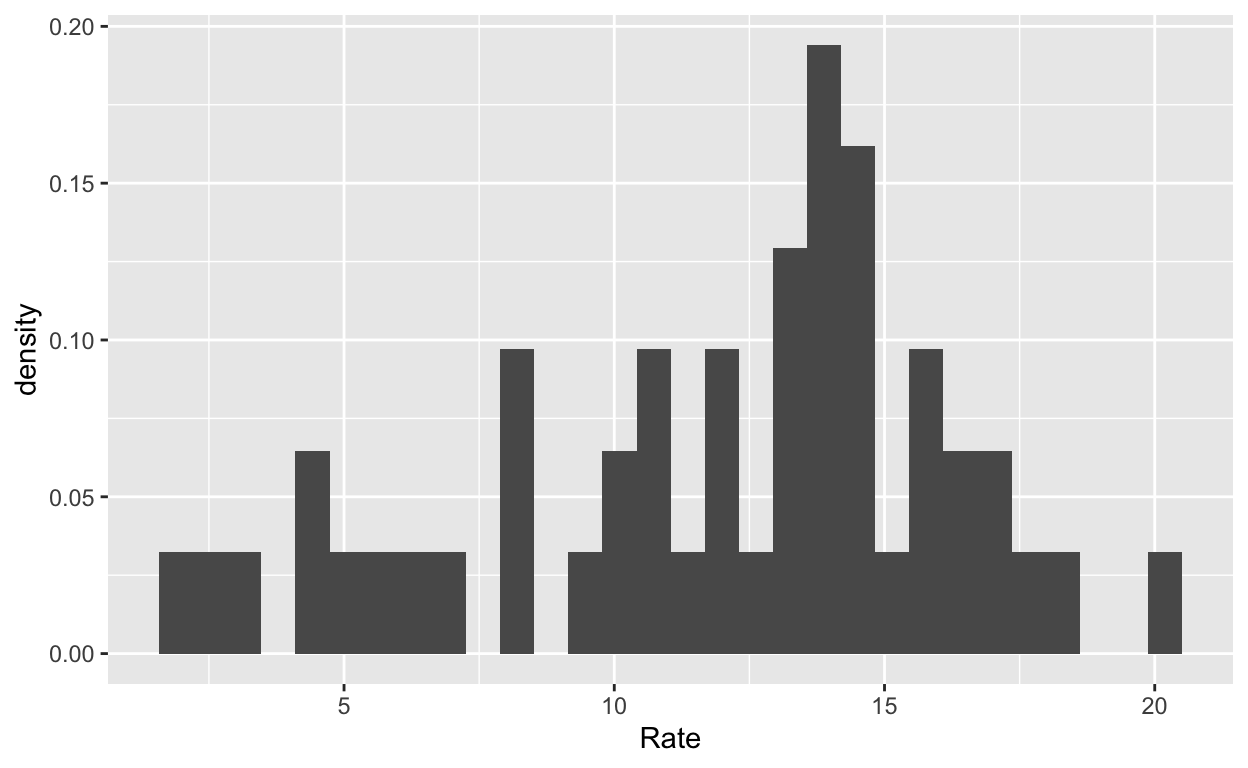
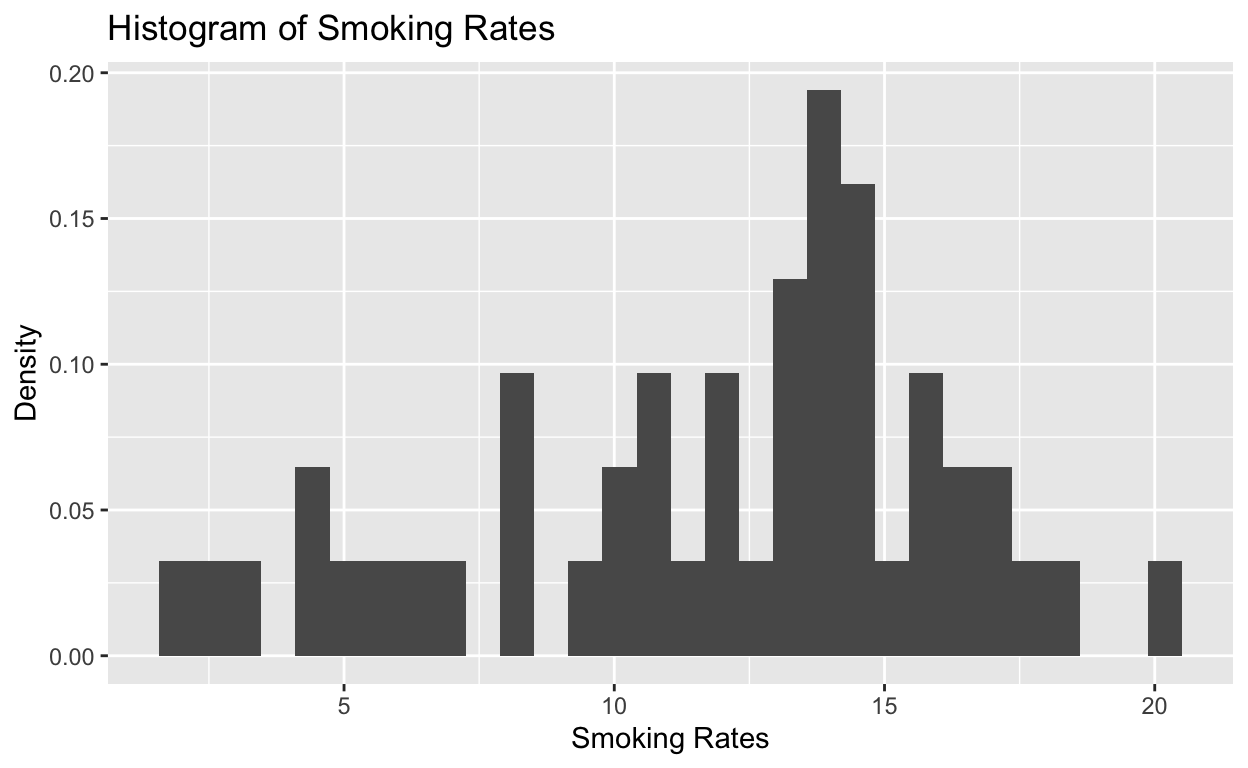
xxx

diff --git a/Boit_final_proj.html b/Boit_final_proj.html
@@ -1520,17 +1520,16 @@ code span.wa { color: #5e5e5e; font-style: italic; } /* Warning */
 <h2 id="introduction">Introduction</h2>
 <p>This final project will explore data related to smoking in high schools in California. The smoking epidemic is terrifying, and the vast majority of nicotine addicts begin smoking in high school. According to the National Cancer Institute, 90% of daily cigarette smokers started before the age of eighteen … which is in high school. The data is from Data.Gov (which is also available at this link: <a href="https://catalog.data.gov/dataset/proportion-of-high-school-students-who-smoked-cigarettes-in-the-past-30-days-lghc-indicato-46afc" class="uri">https://catalog.data.gov/dataset/proportion-of-high-school-students-who-smoked-cigarettes-in-the-past-30-days-lghc-indicato-46afc</a>). The data draws from California high schools.</p>
 <p>I think it is important to look at this sort of data set firstly because we KNOW – from statistics like the National Cancer Institute’s – that high schoolers are the most at risk for developing cigarette addictions. Smoking cigarettes is linked to roughly 80-90% of lung cancer deaths in the United States, according to the CDC, and over 130 thousand people die of lung cancer annually (on average) in the US, according to Lung Cancer Facts 2022. In order to understand the root of this epidemic – and combat it – we must better understand which teenagers are most at risk so that we can best allocate our resources to fighting nicotine addictions.</p>
-<p>This topic is of particular interest to me because my grandma (a smoker) died of cancer, and I have several friends with nicotine addictions who developed them in high school. Though we had some anti-smoking notices, there were very few. I also grew up in Alcoholics Anonymous meetings, where the vast majority of people smoked. Listening to individuals’ stories, week after week, I learned at a young age that most of them started drinking and smoking in high school. I would like to do this project in order to assemble quantitative data to help inform anti-smoking campaigns so that they can be as effective as possible. It is truly an epidemic, and I hope that this project will give greater insight into who is at the greatest risk.</p>
-<h2 id="data-and-research-design">Data and Research Design</h2>
-<p>Individual teenagers (in high school) who smoke vary in their demographics, both in terms of their racial identity and their sex identity (ie. male v female). This project only examines students who do smoke cigarettes.</p>
-<p>The dataset I will use in this project is from Data.Gov, which is the home of the U.S. Government’s open data. It is managed by the federal government’s executive branch, and therefore it is highly reliable. The survey was administered in the United States via a biennial survey from 2001 to 2016. It was administered to students in grades 8, 10, and 12. This data set specifically examines California.</p>
-<p>In my examination of the research I will examine the rate of smoking as my dependent variable. I examine two main independent variables: the first being racial identity. I examine four main racial categories: African-American, Asian/Pacific Islander, Hispanic, and White. I understand that this excludes biracial people and may oversimplify the racial category in general, however it offers a broad enough set of options to give a reliable result. I examine two sexes: male and female. I will use the term sex rather than gender because gender identity tends to be more complicated while sex identity is often binary. (I recognize that there are Intersex people as well, however they compose such a small portion of the population – and are not present in the data from this survey. In order to stay within the realm of this data set, I will consider the sex identity binary for this project.)</p>
+<p>This topic is of particular interest to me because my grandma (a smoker) died of cancer, and I have several friends with nicotine addictions who developed them in high school. Though we had some anti-smoking notices, there were very few. I also grew up in Alcoholics Anonymous meetings, where the vast majority of people smoked. Listening to individuals’ stories, week after week, I learned at a young age that most of them started drinking and smoking in high school. I would like to do this project in order to assemble quantitative data to help inform anti-smoking campaigns so that they can be as effective as possible. It is truly an epidemic, and I hope that this project will give greater insight into who is at the greatest risk.
+Individual teenagers (in high school) who smoke vary in their demographics, both in terms of their racial identity and their sex identity (ie. male v female). This project only examines students who do smoke cigarettes. The broader puzzle I reference in this study is how identity intersects – and affects – teenager smoking rates. In order to best address this broader puzzle, the specific research question I pose (and will answer) in this project is: “Which racial group and which sex smokes cigarettes most (and least)?”</p>
 <p>I hypothesize that asian teenagers will smoke most, followed by their white peers. This is because smoking rates are highest among Asian countries, followed by much of Europe, According to the World Population Review. I hypothesize that more teenage boys will smoke than teenage girls because that was my personal experience in high school.</p>
-<p>This research project has an observational research design, because it observes the independent and dependent variables without changing any variables in the equation.</p>
+<h2 id="data-and-research-design">Data and Research Design</h2>
+<p>The data set I will use in this project is from Data.Gov, which is the home of the U.S. Government’s open data. It is managed by the federal government’s executive branch, and therefore it is highly reliable. The survey was administered in the United States via a biennial survey from 2001 to 2016. It was administered to students in grades 8, 10, and 12. This data set specifically examines California.</p>
+<p>In my examination of the research I will examine the rate of smoking as my dependent variable. I examine two main independent variables: the first being racial identity. I examine four main racial categories: African-American, Asian/Pacific Islander, Hispanic, and White. I understand that this excludes biracial people and may oversimplify the racial category in general, however it offers a broad enough set of options to give a reliable result. I examine two sexes: male and female. I will use the term sex rather than gender because gender identity tends to be more complicated while sex identity is often binary. (I recognize that there are Intersex people as well, however they compose such a small portion of the population – and are not present in the data from this survey. In order to stay within the realm of this data set, I will consider the sex identity binary for this project.)</p>
+<p>This research project is a cross-sectional study. This means that it is an observational study that looks at data of a certain population in a certain time. The population of this data set is Californian teenagers and the time range is from 2001-2016. This study is clearly observational because it measures the independent and dependent variables without changing any variables in the equation.</p>
 <p>The data set I use in this project is also accessible here.
 <a href="https://catalog.data.gov/dataset/proportion-of-high-school-students-who-smoked-cigarettes-in-the-past-30-days-lghc-indicato-46afc" class="uri">https://catalog.data.gov/dataset/proportion-of-high-school-students-who-smoked-cigarettes-in-the-past-30-days-lghc-indicato-46afc</a></p>
-<h2 id="results-intro">Results Intro</h2>
-<p>Below is the data of the independent and dependent variables:</p>
+Loading the Data:
 <div class="layout-chunk" data-layout="l-body">
 <div class="sourceCode">
 <pre class="sourceCode r"><code class="sourceCode r"><span><span class='kw'><a href='https://rdrr.io/r/base/library.html'>library</a></span><span class='op'>(</span><span class='va'><a href='https://strengejacke.github.io/sjlabelled/'>sjlabelled</a></span><span class='op'>)</span></span>
@@ -1542,6 +1541,7 @@ code span.wa { color: #5e5e5e; font-style: italic; } /* Warning */
 <span><span class='va'>data</span> <span class='op'>&lt;-</span> <span class='fu'><a href='https://readr.tidyverse.org/reference/read_delim.html'>read_csv</a></span><span class='op'>(</span><span class='st'>"proportion-of-high-school-students-who-smoked-cigarettes-in-the-past-30-days-lghc-indicator-13 (1).csv"</span><span class='op'>)</span></span></code></pre>
 </div>
 </div>
+Organizing the Data to Best Interpret it Later:
 <div class="layout-chunk" data-layout="l-body">
 <div class="sourceCode">
 <pre class="sourceCode r"><code class="sourceCode r"><span><span class='va'>cigs</span> <span class='op'>&lt;-</span> <span class='va'>data</span> <span class='op'>|&gt;</span></span>
@@ -1557,17 +1557,22 @@ code span.wa { color: #5e5e5e; font-style: italic; } /* Warning */
 <span>  <span class='fu'><a href='https://dplyr.tidyverse.org/reference/mutate.html'>mutate</a></span><span class='op'>(</span>of_color <span class='op'>=</span> <span class='fu'><a href='https://dplyr.tidyverse.org/reference/if_else.html'>if_else</a></span><span class='op'>(</span><span class='va'>`Strata Name`</span> <span class='op'>==</span> <span class='st'>"White"</span>, <span class='st'>"White"</span>, <span class='st'>"Person of Color"</span><span class='op'>)</span><span class='op'>)</span></span></code></pre>
 </div>
 </div>
-histogram – only supposed to be of the outcome variable
+<p>The main coefficient of interest here is the rate of smoking among Californian high school teenagers. This coefficient is what this study will examine as its outcome/dependent variable. However, this study will also examine other coefficients as discussed above. This includes the correlation between race, sex, and smoking rates, in order to better understand relationships between all involved variables.</p>
+Creating a Histogram of the Outcome Variable:
 <div class="layout-chunk" data-layout="l-body">
 <div class="sourceCode">
 <pre class="sourceCode r"><code class="sourceCode r"><span><span class='va'>cigs</span> <span class='op'>|&gt;</span></span>
 <span>  <span class='fu'><a href='https://ggplot2.tidyverse.org/reference/ggplot.html'>ggplot</a></span><span class='op'>(</span>mapping <span class='op'>=</span> <span class='fu'><a href='https://ggplot2.tidyverse.org/reference/aes.html'>aes</a></span><span class='op'>(</span>x <span class='op'>=</span> <span class='va'>Rate</span><span class='op'>)</span><span class='op'>)</span> <span class='op'>+</span></span>
-<span>  <span class='fu'><a href='https://ggplot2.tidyverse.org/reference/geom_histogram.html'>geom_histogram</a></span><span class='op'>(</span><span class='fu'><a href='https://ggplot2.tidyverse.org/reference/aes.html'>aes</a></span><span class='op'>(</span>y <span class='op'>=</span> <span class='va'>..density..</span><span class='op'>)</span><span class='op'>)</span></span></code></pre>
+<span>  <span class='fu'><a href='https://ggplot2.tidyverse.org/reference/geom_histogram.html'>geom_histogram</a></span><span class='op'>(</span><span class='fu'><a href='https://ggplot2.tidyverse.org/reference/aes.html'>aes</a></span><span class='op'>(</span>y <span class='op'>=</span> <span class='va'>..density..</span><span class='op'>)</span><span class='op'>)</span> <span class='op'>+</span></span>
+<span>  <span class='fu'><a href='https://ggplot2.tidyverse.org/reference/labs.html'>labs</a></span><span class='op'>(</span>x <span class='op'>=</span> <span class='st'>"Smoking Rates"</span>,</span>
+<span>       y <span class='op'>=</span> <span class='st'>"Density"</span>,</span>
+<span>       title <span class='op'>=</span> <span class='st'>"Histogram of Smoking Rates"</span><span class='op'>)</span></span></code></pre>
 </div>
 <p><img src="Boit_final_proj_files/figure-html5/unnamed-chunk-3-1.png" width="624" /></p>
 </div>
+<p>This histogram displays the outcome variable: the rate of smoking. Smoking rates are displayed along the x-axis of the chart and range from slightly above 0 to slightly above 21. This shows a wide range in the amount of smoking. The density of these smoking rates – or how common they are among the different groups of Californian teens surveyed – is displayed on the y-axis. The densities vary from 0 to nearly .20. The most “dense” or common rate of smoking is just below .20 on the y axis and located at about 13 (on the x axis), showing that it is not uncommon for 13% of any given demographic group (from this data set) to smoke – and that in about 18% of all demographic groups, 13% of those asked will smoke cigarettes.</p>
 <h2 id="results-for-race-independent-variable">Results for Race Independent Variable</h2>
-BIVARIATE PLOT OF OUTCOME AND RACE:
+Creating a Bivariate Plot of the Outcome and Race:
 <div class="layout-chunk" data-layout="l-body">
 <div class="sourceCode">
 <pre class="sourceCode r"><code class="sourceCode r"><span><span class='va'>cigs_race</span> <span class='op'>&lt;-</span> <span class='va'>cigs</span> <span class='op'>|&gt;</span></span>
@@ -1587,7 +1592,7 @@ BIVARIATE PLOT OF OUTCOME AND RACE:
 </div>
 <p><img src="Boit_final_proj_files/figure-html5/unnamed-chunk-4-1.png" width="624" /></p>
 </div>
-<p>This graph shows the rate of cigarette smoking on average for each race. The data points are taken from several years (2001 - 2016) and only measured on the basis of race in this chart.</p>
+<p>This bar graph shows the rate of cigarette smoking on average for each race. The data points are taken from several years (2001 - 2016) and only measured on the basis of race in this chart. The x-axis displays the race in four separate columns: White, Black, Hispanic, and Asian. The y-axis shows the percentage of each group who smoke cigarettes. The y-axis averages the data provided through the years in order to measure each demographic. The bar graph shows that white teenagers tended to smoke cigarettes the most because the “White” column is tallest. This shows that – on average – the white teenagers smoked at a rate of 15%, based on the data set. The lowest column represents the Asian teenagers surveyed, who tended to smoke cigarettes at roughly a rate of 8.75%. Black teenagers smoked at the second lowest rate, at just below 10%. Hispanic teenagers smoked at the second highest rate, at about 12%. The rough difference between white teenagers (the largest smoking group) and asian teenagers (the smallest smoking group) is about 6%, which is a very noticeable difference. The difference between white teenagers and hispanic teenagers (the second biggest smoking group) is also about 3%, which is quite significant as well. This bar graph provides valuable data showing that white teenagers are noticeably the biggest smoking group.</p>
 <div class="layout-chunk" data-layout="l-body">
 <div class="sourceCode">
 <pre class="sourceCode r"><code class="sourceCode r"><span><span class='va'>mod_race</span> <span class='op'>&lt;-</span></span>
@@ -1595,16 +1600,16 @@ BIVARIATE PLOT OF OUTCOME AND RACE:
 <span>    data <span class='op'>=</span> <span class='va'>cigs</span> <span class='op'>|&gt;</span> <span class='fu'><a href='https://dplyr.tidyverse.org/reference/filter.html'>filter</a></span><span class='op'>(</span><span class='va'>Strata</span> <span class='op'>==</span> <span class='st'>"Race-Ethnicity"</span><span class='op'>)</span>,</span>
 <span>    <span class='va'>Rate</span> <span class='op'>~</span> <span class='va'>Race</span><span class='op'>)</span></span>
 <span><span class='fu'><a href='https://rdrr.io/r/base/summary.html'>summary</a></span><span class='op'>(</span><span class='va'>mod_race</span><span class='op'>)</span><span class='op'>$</span><span class='va'>coefficients</span> <span class='op'>|&gt;</span> <span class='fu'>knitr</span><span class='fu'>::</span><span class='fu'><a href='https://rdrr.io/pkg/knitr/man/kable.html'>kable</a></span><span class='op'>(</span>digits <span class='op'>=</span> <span class='fl'>2</span>,</span>
-<span>                                               col.names <span class='op'>=</span> <span class='fu'><a href='https://rdrr.io/r/base/c.html'>c</a></span><span class='op'>(</span><span class='st'>"Estimate Std."</span>, <span class='st'>"Error"</span>, <span class='st'>"T Value"</span>, <span class='st'>"P Value"</span><span class='op'>)</span><span class='op'>)</span></span></code></pre>
+<span>                                               col.names <span class='op'>=</span> <span class='fu'><a href='https://rdrr.io/r/base/c.html'>c</a></span><span class='op'>(</span><span class='st'>"Est. SD"</span>, <span class='st'>"Error"</span>, <span class='st'>"T-Value"</span>, <span class='st'>"P-Value"</span><span class='op'>)</span><span class='op'>)</span></span></code></pre>
 </div>
 <table>
 <thead>
 <tr class="header">
 <th style="text-align: left;"></th>
-<th style="text-align: right;">Estimate Std.</th>
+<th style="text-align: right;">Est. SD</th>
 <th style="text-align: right;">Error</th>
-<th style="text-align: right;">T Value</th>
-<th style="text-align: right;">P Value</th>
+<th style="text-align: right;">T-Value</th>
+<th style="text-align: right;">P-Value</th>
 </tr>
 </thead>
 <tbody>
@@ -1639,6 +1644,11 @@ BIVARIATE PLOT OF OUTCOME AND RACE:
 </tbody>
 </table>
 </div>
+<p>This regressions table shows the effect of race on how much students tend to smoke cigarettes. In this table, we consider white students to be the intercept, or the baseline, of our studies, because white students smoked at the highest rates. From there, under the “Est SD” column, we can see how far each other racial demographic varies from the white teenagers. The negative in front of all three other groups shows that they all smoke fewer cigarettes than the white average (if they were positive, that would show that they smoked on average more cigarettes than their white peers). This regression table enforces that hispanics smoked the second most, as their -3.00 is the smallest value, showing that their smoking rates are closest to that of tehir white peers. It also reinforces that Black students smoked third most, because their -5.67 is the second lowest value, showing that they’re second closest to the white students. Asian students once more demonstrate the lowest smoking average, with a -6.36 difference from their white peers. The largest value here shows that they vary the most from the white baseline/intercept.</p>
+<p>The error column shows the possible error in each calculation, with equal error (2.16) among all groups except the white intercept which has 1.53 as its error value. This suggests that results could theoretically vary by 2.16 points in either direction. Regardless of whether or not all groups increased by 2.16, white students would still smoke the most on average.
+The T-values are not terribly important to the results of this experiment, but they measure the differences compared to the variation in data overall. The smaller the T value is, the less evidence it holds against the null hyothesis – and because the T-values are not negligible, there is some evidence against the null hypothesis.</p>
+<p>The P-values shown in the far right of the table show the probability of getting the same results – or values that emphasize the same result to at least the same extent (or greater) – if redoing the test. A lower p-value suggests that the null hypothesis is not true. Therefore, a p-value of 0, suggests that the null is false. Similarly, the 0.01 p-values also strongly suggest that the null hypothesis is not true. In this case, the null hypothesis would be the opposite of our main findings for each race (ie. that white teenagers smoke the least for the data provided on white teens as the baseline).</p>
+<p>I would say taht given the medium level errors on the regression table, that these results are relatively statistically significant, but have room for further investigation. These results on race are not strong enough to show any sort of causality, but they do show a correlation between racial groups the the likelihood of smoking. A more controlled experiment set-up for this variable would be necessary to show causality, and observational data often does not allow for the effective establishment of causality. That said, the results show a clear correlation, and so we can still make inferences about how race affects smoking cigarettes for teenagers. However, no certain causality may be established at this point.</p>
 <h2 id="results-for-sex-independent-variable">Results for Sex Independent Variable</h2>
 BIVARIATE PLOT OF OUTCOME AND SEX
 <div class="layout-chunk" data-layout="l-body">
@@ -1660,6 +1670,7 @@ BIVARIATE PLOT OF OUTCOME AND SEX
 </div>
 <p><img src="Boit_final_proj_files/figure-html5/unnamed-chunk-6-1.png" width="624" /></p>
 </div>
+<p>This bar graph shows the rate of cigarette smoking on average for both sexes The data points are taken from several years (2001 - 2016) and only measured on the basis of sex in this chart. The x-axis displays the race in two separate columns: Male and Female. The y-axis shows the percentage of each group who smoke cigarettes. The y-axis averages the data provided through the years (2001-2016) in order to measure each demographic. The bar graph shows that male teenagers tended to smoke cigarettes more than female teenagers. The “Male” column reaches roughly 14%. The “Female” column, on the other hand, reaches roughly 11%, suggesting about a 3% difference between teenagers on the basis of sex. This is a relatively noticeable difference that provides valuable quantitative data.</p>
 <div class="layout-chunk" data-layout="l-body">
 <div class="sourceCode">
 <pre class="sourceCode r"><code class="sourceCode r"><span><span class='va'>mod_sex</span> <span class='op'>&lt;-</span></span>
@@ -1697,13 +1708,13 @@ BIVARIATE PLOT OF OUTCOME AND SEX
 </tbody>
 </table>
 </div>
+<p>This regressions table shows the effect of sex on how many students tend to smoke cigarettes. In this table, we consider male students to be the intercept, or the baseline, of our studies, because male students smoked at a higher rates. From there, under the “Est SD” column, we can see how far the female demographic varies from the male teenagers. The negative in front of the female group shows that female teenagers tend to smoke fewer cigarettes than the white average (if they were positive, that would show that they smoked on average more cigarettes than their white peers). This regression table enforces that females smoked on average 3.30 points less than their male peers. This is a relatively significant difference, suggesting that cigarette smoking is a larger issue among male teenagers.</p>
+<p>The error column shows the possible error in each calculation, with equal error in both groups. This suggests that results could theoretically vary by 1.56 points for male teenagers or 2.20 points for female teenagers in either direction. Even considering these fluctuations, the net average of both male and female groups suggests that it would be quite unlikely – and take all of the error on both measurements – for female cigarette smoking to outweigh male cigarette smoking in general.</p>
+<p>The T-values are not terribly important to the results of this experiment, but they measure the differences compared to the variation in data overall. However, the P-values shown in the far right of the table are more important, and they show the probability of getting the same results – or values that emphasize the same result to at least the same extent (or greater) – if redoing the test. A lower p-value suggests that the null hypothesis is not true. Therefore, a p-value of 0, suggests that the null is false. Similarly, the 0.16 p-value (for female teenagers) also somewhat suggests that the null hypothesis is not true. However, this is a large enough value that suggests we should not disregard the null hypothesis in this case. This makes sense because of the error considered in the above paragraph, where there is a possibility – though very tiny – that if the error played out in a certain way, the data could show a greater smoking rate among female teenagers than male teenagers (although by very little). There is a very small chance of this though, which is reflected in the 0.16 – big enough to be significant, but not big enough to be THAT signficant. In this case, the null hypothesis would be the opposite of our main findings for each race (ie. that male teenagers smoke the least from the data provided on teens of both sexes).</p>
+<p>I would say that based on the regression table, these results are relatively statistically significant. The error margins are a little larger than preferable, but the regression table shows a pretty strong correlation. These results on sex identity are not strong enough to show any sort of causality, but they do show a correlation. Causality would require a more controlled experiment set-up for this variable, because the establishment of causality is oftentimes not possible with observational data. However, the results definitely show a correlation, on which we can make inferences. At this point in time with this data set, these results may not be effectively interpreted causally.</p>
 <h2 id="conclusion">Conclusion</h2>
-<ul>
-<li>summary of findings</li>
-<li>Discussion of confounders, e.g. what could be a confounder, how could it influence the explanatory variable, how could it influence the outcome variable, is this confounder in your dataset and controlled for in your regression model?</li>
-<li>limitations of final project analyses</li>
-<li>possible improvements</li>
-</ul>
+<p>My findings show that white teenagers are the largest cigarette smokers racial demographic …
+- bring in how this says ur hypothesis are wrong (or just say ur hypotheses)</p>
 <p>This final project does raise some possible confounding variables. Factors like education often play into whether individuals smoke or not. Although all teenagers are in school – in grades 8-12 – it is possible that the quality of education also plays a role. This data set does not account for socio-economic status, too, which is oftentimes the main driver in the quality of education… this could also make socio-economic status another potential confounding variable. Another possible confounding variable is whether or not an individual’s parents smoke, which often allows them access to cigarettes – more so than their peers with non-smoking parents. (I have observed this many times in my own personal experience in high school and through talking to many recovering/recovered addicts.) These counfounding variables could be
 The discussion of the confounding variables highlights the limitations of this project. It is only able to properly examine a couple main independent variables – race and sex – while there are many others that make an impact. The main limitation of this project is that it does little to counter or accommodate these potential confounding variables. Another limitation of this project is that it only examines data within California and it has an observational set-up. This gives the study relatively high internal validity becuase they hold very true within the observed setting. However, it has lower external validity because it is not in a fully controlled setting. Because California is fairly representative of most of the US, we can assume that these results offer a helpful guideline for other states, but we cannot guarantee that the results would be mirrored perfectly – because of this lower external validity due to the observational nature of this study.</p>
 <p>Possible improvements to this study would require a more expansive data set. I would love to have similar data that ranges across the country with a much larger sample size. This would best control for errors and other confounding variables. I think it would be helpful to examine the role of socio-economic status (which also ties into quality of education), parental smoking habits, and geographical location. These are variables that I was unable to discuss within the scope of this project, partially due to the nature of the project length and also because data sets this expansive are not readily available. Therefore, I suggest a nation-wide survey that would cover all of these variables in order to best explore this subject matter and provide anti-smoking campaigns with the best information possible as we continue to battle this epidemic.</p>
